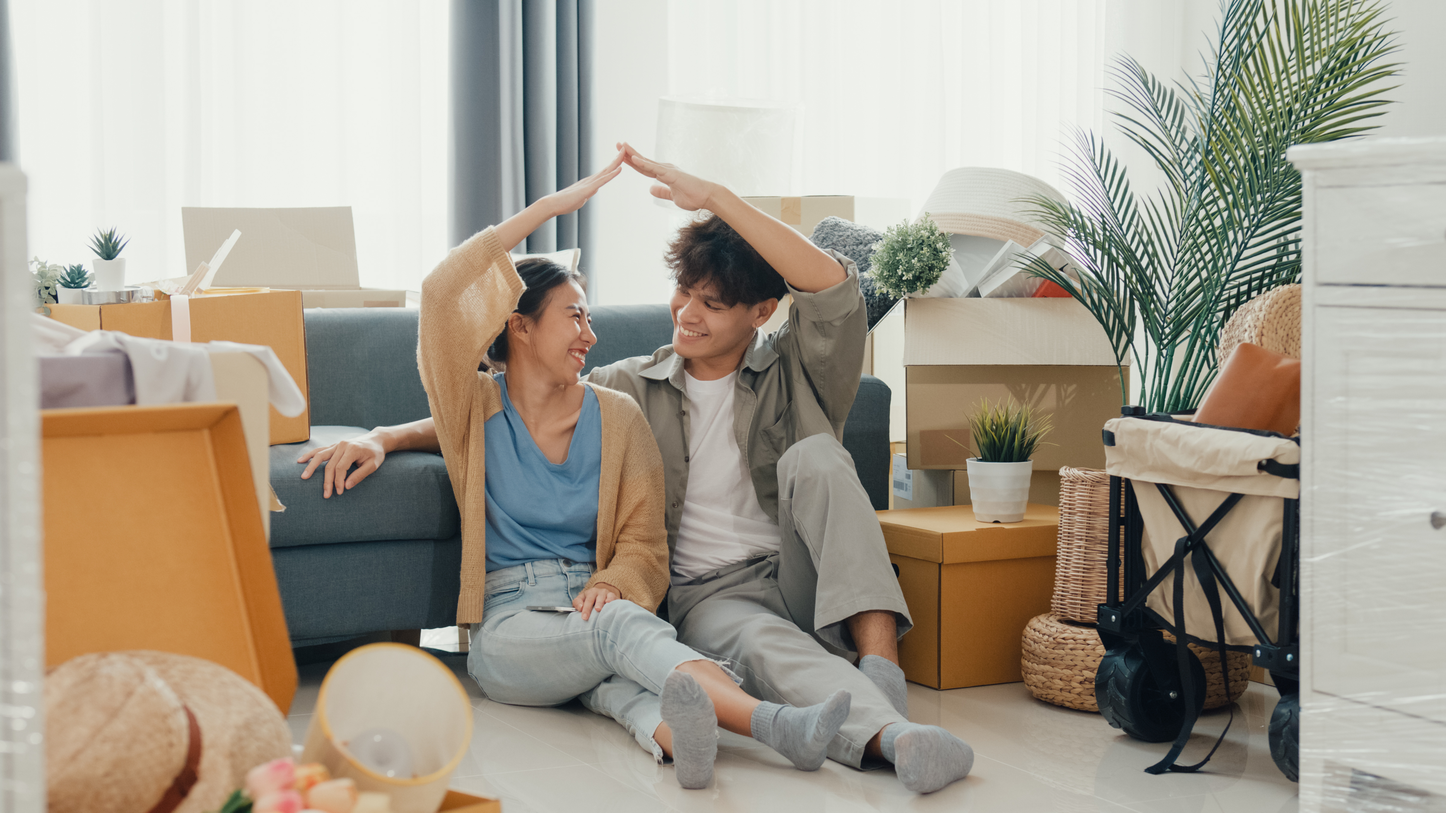
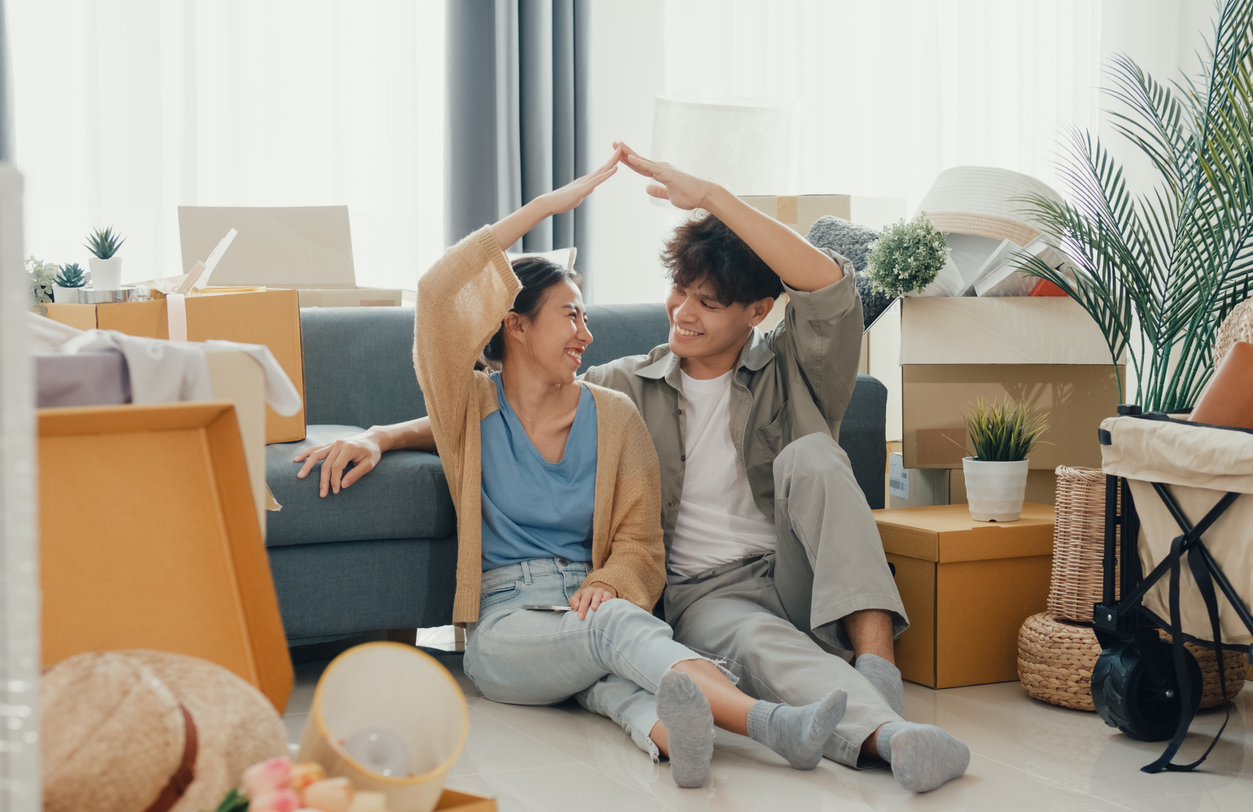
update hero image

diff --git a/static/css/style.css b/static/css/style.css
@@ -429,7 +429,7 @@ h4 { font-size: 1.1rem; }
   width: 100%;
   height: 100%;
   object-fit: cover;
-  object-position: left center;
+  object-position: center;
 }
 
 .hero-content {
